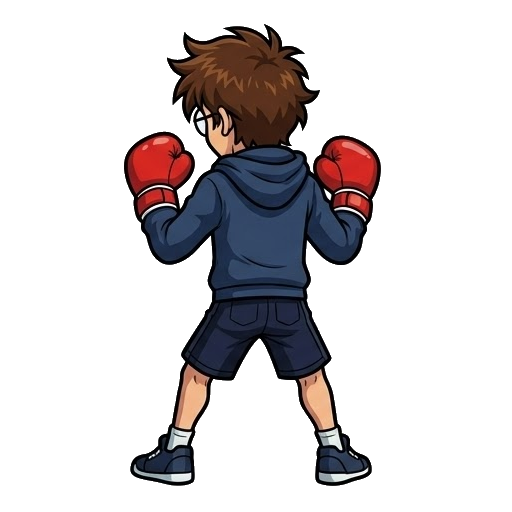
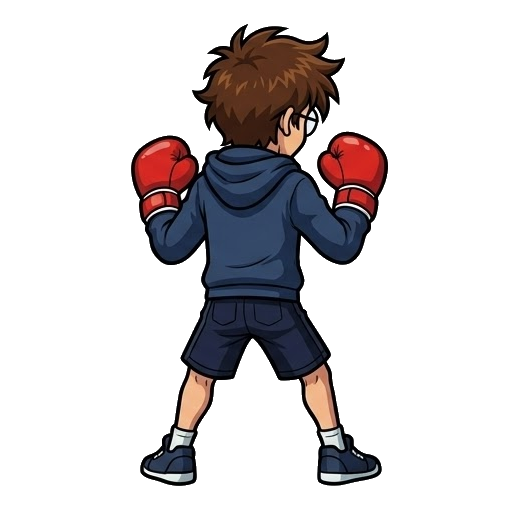
maj jeu

Changed region(s): [[0.2188, 0.0312, 0.7812, 0.9688]]

diff --git a/src/lib/skins.js b/src/lib/skins.js
@@ -1,14 +1,15 @@
 // ============================================================
-//  Systeme de SKINS nommes librement + assignation par emplacement.
-//  - Les skins sont decrits dans public/skins/index.json (manifeste).
-//  - Fichiers : public/skins/<slug>/<vue>.png  (vues: front/back/defeated/select)
-//  - L'utilisateur assigne un skin a un emplacement d'avatar (h1..f3)
-//    ou le definit comme DEFAUT GLOBAL. Assignations persistees en localStorage.
-//  - Rien n'est ecrase : les images integrees restent le repli.
+//  SKINS = apparences (4 vues) appartenant a un PERSONNAGE.
+//  - Manifeste : public/skins/index.json -> [{ slug, name, views, character }]
+//  - Fichiers : public/skins/<slug>/<vue>.png
+//  - Chaque personnage (data/characters.js) a un skin par DEFAUT, mais la
+//    liaison est REASSIGNABLE a l'execution (surcharge persistee en localStorage).
 // ============================================================
-const LS='bdp_skins_v1'   // { byAvatar:{h1:'slug',...}, def:'slug'|null }
+import { CHARACTERS } from '../data/characters.js'
 
-let MANIFEST = { skins: [] }   // { slug, name, views:['front',...] }[]
+const LS='bdp_charskin_v1'   // { <charId>: '<slug>' }  surcharge du skin par defaut
+
+let MANIFEST = { skins: [] }
 let LOADED = false
 
 export async function loadManifest(){
@@ -22,28 +23,38 @@ export async function loadManifest(){
 }
 export function allSkins(){ return MANIFEST.skins || [] }
 export function skinBySlug(slug){ return (MANIFEST.skins||[]).find(s=>s.slug===slug) || null }
-
-function readAssign(){ try{ return JSON.parse(localStorage.getItem(LS)) || {byAvatar:{},def:null} }catch{ return {byAvatar:{},def:null} } }
-let ASSIGN = readAssign()
-function saveAssign(){ localStorage.setItem(LS, JSON.stringify(ASSIGN)) }
-
-export function getAssignments(){ return { byAvatar:{...ASSIGN.byAvatar}, def:ASSIGN.def } }
-export function assignToAvatar(avatarKey, slugOrNull){
-  ASSIGN = { ...ASSIGN, byAvatar: { ...ASSIGN.byAvatar } }
-  if(slugOrNull) ASSIGN.byAvatar[avatarKey] = slugOrNull
-  else delete ASSIGN.byAvatar[avatarKey]
-  saveAssign(); return getAssignments()
+// Skins compatibles avec un personnage (ceux qui lui appartiennent + ceux sans proprietaire).
+export function skinsForCharacter(charId){
+  return (MANIFEST.skins||[]).filter(s=> s.character===charId || !s.character)
 }
-export function setDefaultSkin(slugOrNull){ ASSIGN = { ...ASSIGN, def: slugOrNull||null }; saveAssign(); return getAssignments() }
 
-// Quel skin s'applique a cet emplacement d'avatar ? (precis > defaut global > aucun)
-export function skinForAvatar(avatarKey){
-  const slug = (ASSIGN.byAvatar && ASSIGN.byAvatar[avatarKey]) || ASSIGN.def || null
-  return slug ? skinBySlug(slug) : null
+function readOv(){ try{ return JSON.parse(localStorage.getItem(LS)) || {} }catch{ return {} } }
+let OVERRIDE = readOv()
+function saveOv(){ localStorage.setItem(LS, JSON.stringify(OVERRIDE)) }
+
+// Quel skin (slug) utilise ce personnage ? surcharge > defaut du perso > null
+export function skinSlugForCharacter(charId){
+  if(OVERRIDE[charId]) return OVERRIDE[charId]
+  const c = CHARACTERS[charId]
+  return c ? (c.skin||null) : null
 }
-// URL d'une vue de skin si le skin la possede, sinon null.
-export function skinViewUrl(avatarKey, view){
-  const sk = skinForAvatar(avatarKey)
-  if(sk && (sk.views||[]).includes(view)) return '/skins/'+sk.slug+'/'+view+'.png'
+// Reassigner le skin d'un personnage (null = revenir au defaut).
+export function setCharacterSkin(charId, slugOrNull){
+  OVERRIDE = { ...OVERRIDE }
+  if(slugOrNull) OVERRIDE[charId] = slugOrNull
+  else delete OVERRIDE[charId]
+  saveOv(); return { ...OVERRIDE }
+}
+export function getOverrides(){ return { ...OVERRIDE } }
+
+// Portrait d'un personnage : vue 'select' de son skin courant (ou null).
+export function charPortrait(charId){ return charViewUrl(charId,'select') }
+
+// URL d'une vue pour un PERSONNAGE (via son skin courant), si la vue existe.
+export function charViewUrl(charId, view){
+  const slug = skinSlugForCharacter(charId)
+  if(!slug) return null
+  const sk = skinBySlug(slug)
+  if(sk && (sk.views||[]).includes(view)) return '/skins/'+slug+'/'+view+'.png'
   return null
 }

diff --git a/src/screens/AvatarScreen.jsx b/src/screens/AvatarScreen.jsx
@@ -1,22 +1,65 @@
-import { AVATARS, TOPS, BOTTOMS } from '../data/cards.js'
+import { useState, useEffect } from 'react'
+import { TOPS, BOTTOMS } from '../data/cards.js'
+import { CHARACTERS, FALLBACK_AVATARS } from '../data/characters.js'
 import { IMG } from '../assets/images.js'
+import { loadManifest, charViewUrl, skinsForCharacter, skinSlugForCharacter, setCharacterSkin } from '../lib/skins.js'
 
-// Ecran dedie : choix de l'avatar du joueur ET de ses fringues (poches/PV).
-export default function AvatarScreen({ ld, onBack, onSkins }){
+// Ecran : choix du PERSONNAGE (affiche via sa vue 'select') + fringues.
+// On peut aussi changer le SKIN d'un personnage (defaut reassignable).
+export default function AvatarScreen({ ld, onBack }){
   const { b, set } = ld
+  const [,force] = useState(0)
+  useEffect(()=>{ loadManifest().then(()=>force(x=>x+1)) },[])
+
+  // Portrait d'un personnage : vue 'select' de son skin, sinon image integree, sinon emoji.
+  function portrait(id){
+    const su = charViewUrl(id,'select')
+    if(su) return <img src={su} alt=""/>
+    if(IMG.avatarFull[id]) return <img src={IMG.avatarFull[id]} alt=""/>
+    return <div className="avemoji">🧑</div>
+  }
+
+  const chars = Object.keys(CHARACTERS)        // persos a part entiere (Akhenat, Alex)
+  const gens  = Object.keys(FALLBACK_AVATARS)  // repli generiques (Max..Jade)
+  const curSkins = (b.avatar && CHARACTERS[b.avatar]) ? skinsForCharacter(b.avatar) : []
+
   return (
     <div className="screen2">
-      <div className="backbar"><button onClick={onBack}>◀ Retour</button><span className="sp"/><b>👤 Mon avatar</b></div>
+      <div className="backbar"><button onClick={onBack}>◀ Retour</button><span className="sp"/><b>👤 Mon personnage</b></div>
       <div className="s2body">
-        <p className="hint">Choisis le personnage qui te represente dans l'arene.</p>
-        {onSkins && <button className="big alt2" style={{marginBottom:10}} onClick={onSkins}>🎭 Mes skins (illustrations perso)</button>}
+        <p className="hint">Choisis ton personnage. Chacun aura bientot ses propres stats.</p>
         <div className="avgrid">
-          {Object.entries(AVATARS).map(([k,a])=>(
-            <div key={k} className={'avbig'+(b.avatar===k?' sel':'')} onClick={()=>set({avatar:k})}>
-              <img src={IMG.avatarFull[k]} alt={a.n}/><b>{a.n}</b>
+          {chars.map(id=>(
+            <div key={id} className={'avbig'+(b.avatar===id?' sel':'')} onClick={()=>set({avatar:id})}>
+              {portrait(id)}<b>{CHARACTERS[id].n}</b>
             </div>
           ))}
         </div>
+
+        {/* Changer le skin du personnage selectionne (si plusieurs dispos) */}
+        {b.avatar && CHARACTERS[b.avatar] && curSkins.length>1 && <>
+          <h2 className="s2h2">Skin de {CHARACTERS[b.avatar].n}</h2>
+          <div className="opts">
+            {curSkins.map(s=>(
+              <div key={s.slug} className={'opt'+(skinSlugForCharacter(b.avatar)===s.slug?' sel':'')}
+                   onClick={()=>{ setCharacterSkin(b.avatar, s.slug); force(x=>x+1) }}>
+                <img className="skinthumb" src={'/skins/'+s.slug+'/select.png'} alt=""/>
+                <b>{s.name||s.slug}</b>
+              </div>
+            ))}
+          </div>
+        </>}
+
+        <h2 className="s2h2">Personnages génériques</h2>
+        <p className="hint">En attendant leurs planches, ils gardent leur image d'origine.</p>
+        <div className="avgrid">
+          {gens.map(id=>(
+            <div key={id} className={'avbig'+(b.avatar===id?' sel':'')} onClick={()=>set({avatar:id})}>
+              {portrait(id)}<b>{FALLBACK_AVATARS[id].n}</b>
+            </div>
+          ))}
+        </div>
+
         <h2 className="s2h2">Tes fringues</h2>
         <p className="hint">Elles donnent des poches (stockage de cartes) et parfois des PV.</p>
         <div className="opts">{Object.entries(TOPS).map(([k,o])=>(<div key={k} className={'opt'+(b.top===k?' sel':'')} onClick={()=>set({top:k})}><div className="e">{o.i}</div><b>{o.n}·{o.pts}💰</b>{o.d}</div>))}</div>

diff --git a/src/assets/sprites.js b/src/assets/sprites.js
@@ -1,18 +1,17 @@
 // ============================================================
 //  Resolution des sprites multi-vues (front/back/defeated/select).
 //  Fichier attendu : public/sprites/<kind>/<key>-<view>.png (PNG transparent).
+//  Avatars : la cle est un ID DE PERSONNAGE -> on passe par son skin courant.
 //  Repli : image integree (IMG) pour la vue par defaut, sinon placeholder.
 // ============================================================
 import { IMG } from './images.js'
 import { hasView } from './customSprites.js'
-import { skinViewUrl } from '../lib/skins.js'
+import { charViewUrl } from '../lib/skins.js'
 
 export const PLACEHOLDER = '/sprites/placeholder.svg'
 
-// URL publique d'une vue precise.
 export function viewUrl(kind, key, view){ return '/sprites/'+kind+'/'+key+'-'+view+'.png' }
 
-// Image integree de repli (une seule vue dispo historiquement).
 export function builtin(kind, key){
   if(kind==='familiers') return IMG.anim?.[key]
   if(kind==='avatars')   return IMG.avatarFull?.[key] || IMG.avatarKnee?.[key]
@@ -20,14 +19,14 @@ export function builtin(kind, key){
   return null
 }
 
-// Source a utiliser pour (kind,key,view) :
-//  - si une vue custom existe -> le fichier public
-//  - sinon, pour 'front'/'back' d'un familier/avatar on retombe sur l'image integree
-//  - sinon -> placeholder
+// (kind,key,view) :
+//  - avatars : skin courant du PERSONNAGE (key = charId) -> fichier public du skin
+//  - sinon vue custom deposee (familiers) -> fichier public
+//  - sinon image integree pour front/back/select -> IMG
+//  - sinon placeholder
 export function spriteFor(kind, key, view){
-  // Priorite absolue : un SKIN assigne a cet emplacement d'avatar.
   if(kind==='avatars'){
-    const su = skinViewUrl(key, view)
+    const su = charViewUrl(key, view)                 // via le skin du personnage
     if(su) return { src:su, fallback:builtin(kind,key)||PLACEHOLDER }
   }
   if(hasView(kind,key,view)) return { src:viewUrl(kind,key,view), fallback:builtin(kind,key)||PLACEHOLDER }

diff --git a/src/App.jsx b/src/App.jsx
@@ -11,7 +11,6 @@ import Leaderboard from './screens/Leaderboard.jsx'
 import Online from './screens/Online.jsx'
 import Shop from './screens/Shop.jsx'
 import Account from './screens/Account.jsx'
-import SkinsScreen from './screens/SkinsScreen.jsx'
 import { loadManifest } from './lib/skins.js'
 
 export default function App(){
@@ -52,7 +51,7 @@ export default function App(){
         onOnline={(cfg)=>{ setLoadout(cfg); setOnlineMode('create'); setScreen('online') }}
         onJoin={(cfg)=>{ setLoadout(cfg); setOnlineMode('join'); setScreen('online') }} />}
 
-      {screen==='avatar'   && <AvatarScreen   ld={ld} onBack={()=>setScreen('home')} onSkins={()=>setScreen('skins')} />}
+      {screen==='avatar'   && <AvatarScreen   ld={ld} onBack={()=>setScreen('home')} />}
       {screen==='familier' && <FamilierScreen ld={ld} onBack={()=>setScreen('home')} />}
       {screen==='deck'     && <DeckScreen     ld={ld} onBack={()=>setScreen('home')} />}
 
@@ -71,8 +70,7 @@ export default function App(){
         onBack={()=>setScreen('home')} />}
       {screen==='lead'  && <Leaderboard auth={auth} onBack={()=>setScreen('home')} onLogin={()=>setScreen('auth')} />}
       {screen==='shop'  && <Shop auth={auth} onBack={()=>setScreen('home')} />}
-      {screen==='account' && <Account auth={auth} onBack={()=>setScreen('home')} onLogin={()=>setScreen('auth')} onLeaderboard={()=>setScreen('lead')} onSkins={()=>setScreen('skins')} />}
-      {screen==='skins' && <SkinsScreen onBack={()=>setScreen('home')} />}
+      {screen==='account' && <Account auth={auth} onBack={()=>setScreen('home')} onLogin={()=>setScreen('auth')} onLeaderboard={()=>setScreen('lead')} />}
     </div>
   )
 }

diff --git a/src/data/characters.js b/src/data/characters.js
@@ -1,0 +1,21 @@
+// ============================================================
+//  Registre des PERSONNAGES (identite + skin par defaut + stats a venir).
+//  Un personnage N'EST PAS un skin : c'est une entite de gameplay propre.
+//  - skin : slug du skin par defaut (apparence 4 vues, defini dans public/skins/index.json)
+//  - stats : EMPLACEMENT PRET pour demain (hp, force, vitesse...). Vide pour l'instant.
+//  La liaison perso -> skin est REASSIGNABLE a l'execution (voir lib/skins.js, surcharge localStorage).
+// ============================================================
+export const CHARACTERS = {
+  akhenat: { n:'Akhenat', skin:'Akhenat', stats:{} },
+  alex:    { n:'Alex El-Rien', skin:'alex', stats:{} },
+}
+
+// Personnages generiques de REPLI (pas de planche encore : images integrees/emoji).
+// Ils restent jouables tant que tu n'as pas fait leurs 4 vues.
+export const FALLBACK_AVATARS = {
+  h1:{n:'Max',g:'h'}, h2:{n:'Theo',g:'h'}, h3:{n:'Hugo',g:'h'},
+  f1:{n:'Lea',g:'f'}, f2:{n:'Zoe',g:'f'}, f3:{n:'Jade',g:'f'}
+}
+
+export function characterList(){ return Object.entries(CHARACTERS).map(([id,c])=>({ id, ...c })) }
+export function getCharacter(id){ return CHARACTERS[id] || null }

diff --git a/src/screens/Home.jsx b/src/screens/Home.jsx
@@ -4,6 +4,7 @@ import { IMG } from '../assets/images.js'
 import { VERSION } from '../version.js'
 import { supabase, online } from '../lib/supabase.js'
 import { getSetting } from '../lib/settings.js'
+import { charPortrait } from '../lib/skins.js'
 
 // Ecran d'accueil : 4 tuiles (Jouer / Avatar / Familier / Deck).
 // 'Jouer' ouvre un sous-menu : Creer / Rejoindre / IA.
@@ -41,7 +42,7 @@ export default function Home({ auth, ld, go, onFight, onOnline, onJoin, resumabl
         </button>
         <div className="tilerow">
           <button className="tile" onClick={()=>go('avatar')}>
-            <img className="tileimg" src={IMG.avatarFull[b.avatar]} alt=""/><span className="tl">AVATAR</span>
+            <img className="tileimg" src={charPortrait(b.avatar)||IMG.avatarFull[b.avatar]||IMG.avatarFull.h1} alt=""/><span className="tl">AVATAR</span>
           </button>
           <button className="tile" onClick={()=>go('familier')}>
             <img className="tileimg" src={IMG.anim[b.pet]} alt=""/><span className="tl">FAMILIER</span>

diff --git a/src/screens/Account.jsx b/src/screens/Account.jsx
@@ -4,7 +4,7 @@ import { getSetting, setSetting } from '../lib/settings.js'
 import { debugAddPoints } from '../lib/economy.js'
 
 // Ecran "Mon compte" : connexion/deconnexion + acces classement + options debug.
-export default function Account({ auth, onBack, onLogin, onLeaderboard, onSkins }){
+export default function Account({ auth, onBack, onLogin, onLeaderboard }){
   const [,force] = useState(0)
   const [msg,setMsg] = useState('')
   const connected = online && auth.session
@@ -37,9 +37,6 @@ export default function Account({ auth, onBack, onLogin, onLeaderboard, onSkins 
 
         <h2 className="s2h2">🏆 Classement</h2>
         <button className="big alt2" onClick={onLeaderboard}>Voir le classement</button>
-
-        <h2 className="s2h2">🎭 Personnalisation</h2>
-        <button className="big alt2" onClick={onSkins}>Gérer mes skins</button>
 
         <h2 className="s2h2">🛠 Options (debug)</h2>
         <div className="optline"><span>Autoriser deck incomplet</span>

diff --git a/src/screens/Battle.jsx b/src/screens/Battle.jsx
@@ -52,7 +52,9 @@ export default function Battle({ auth, loadout, onExit, onHome, onGameOver, netM
     // ===== MODE SOLO (vs IA) =====
     const petKeys = Object.keys(CREATURES)
     const oppPet = petKeys[Math.floor(rng()*petKeys.length)]
-    const opp = E.makeSide({ pet:oppPet, avatar:'h2', top:'chemisette', bottom:'jean', cards: oppDeck(oppPet), name:'Alex' }, false, rng)
+    const oppChars = ['akhenat','alex','h2']   // l'IA peut incarner un vrai perso (skin visible en face)
+    const oppAv = oppChars[Math.floor(rng()*oppChars.length)]
+    const opp = E.makeSide({ pet:oppPet, avatar:oppAv, top:'chemisette', bottom:'jean', cards: oppDeck(oppPet), name: oppAv==='akhenat'?'Akhenat':(oppAv==='alex'?'Alex El-Rien':'Alex') }, false, rng)
     g.current = { rng, me, opp, turn:1, active:null, busy:true, sel:null, over:false, net:false }
     force()
     startTurn(me)

diff --git a/src/styles/app.css b/src/styles/app.css
@@ -450,3 +450,7 @@ img{max-width:100%}
 .avspr{display:block;object-fit:contain;object-position:bottom;image-rendering:auto;animation:bob 2.6s ease-in-out infinite}
 #oppPote .avspr{height:168px;width:auto;max-height:168px;filter:drop-shadow(-3px 2px 0 rgba(0,0,0,.25))}
 #myPote .avspr.avatarknee{height:230px;width:auto;max-height:230px;object-position:bottom;filter:drop-shadow(3px 2px 0 rgba(0,0,0,.25))}
+
+/* ===== Portraits persos (sélection) ===== */
+.avemoji{font-size:54px;display:flex;align-items:center;justify-content:center;height:72px}
+.skinthumb{width:40px;height:40px;object-fit:contain;border:2px solid #111;border-radius:8px;background:#fff}

diff --git a/src/version.js b/src/version.js
@@ -1,1 +1,1 @@
-export const VERSION = "0.10.3"
+export const VERSION = "0.11.0"
